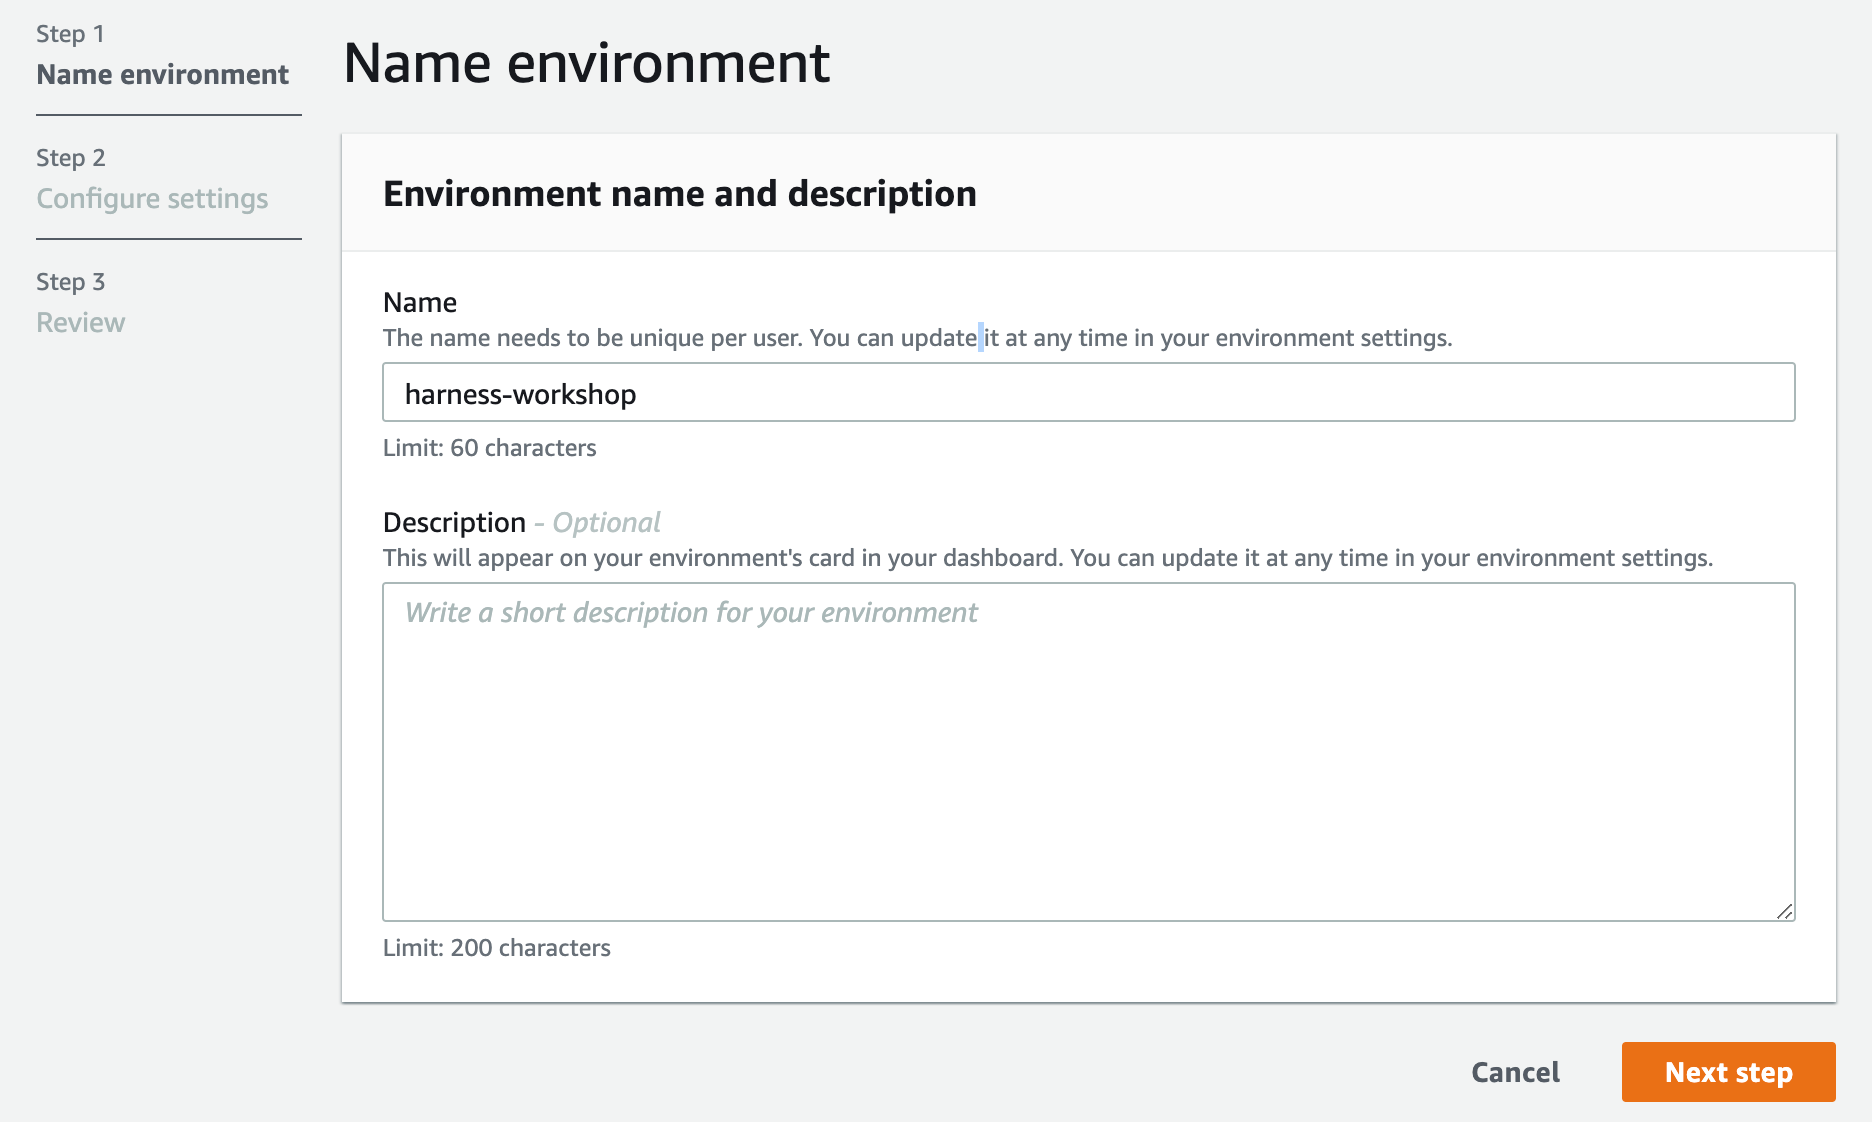
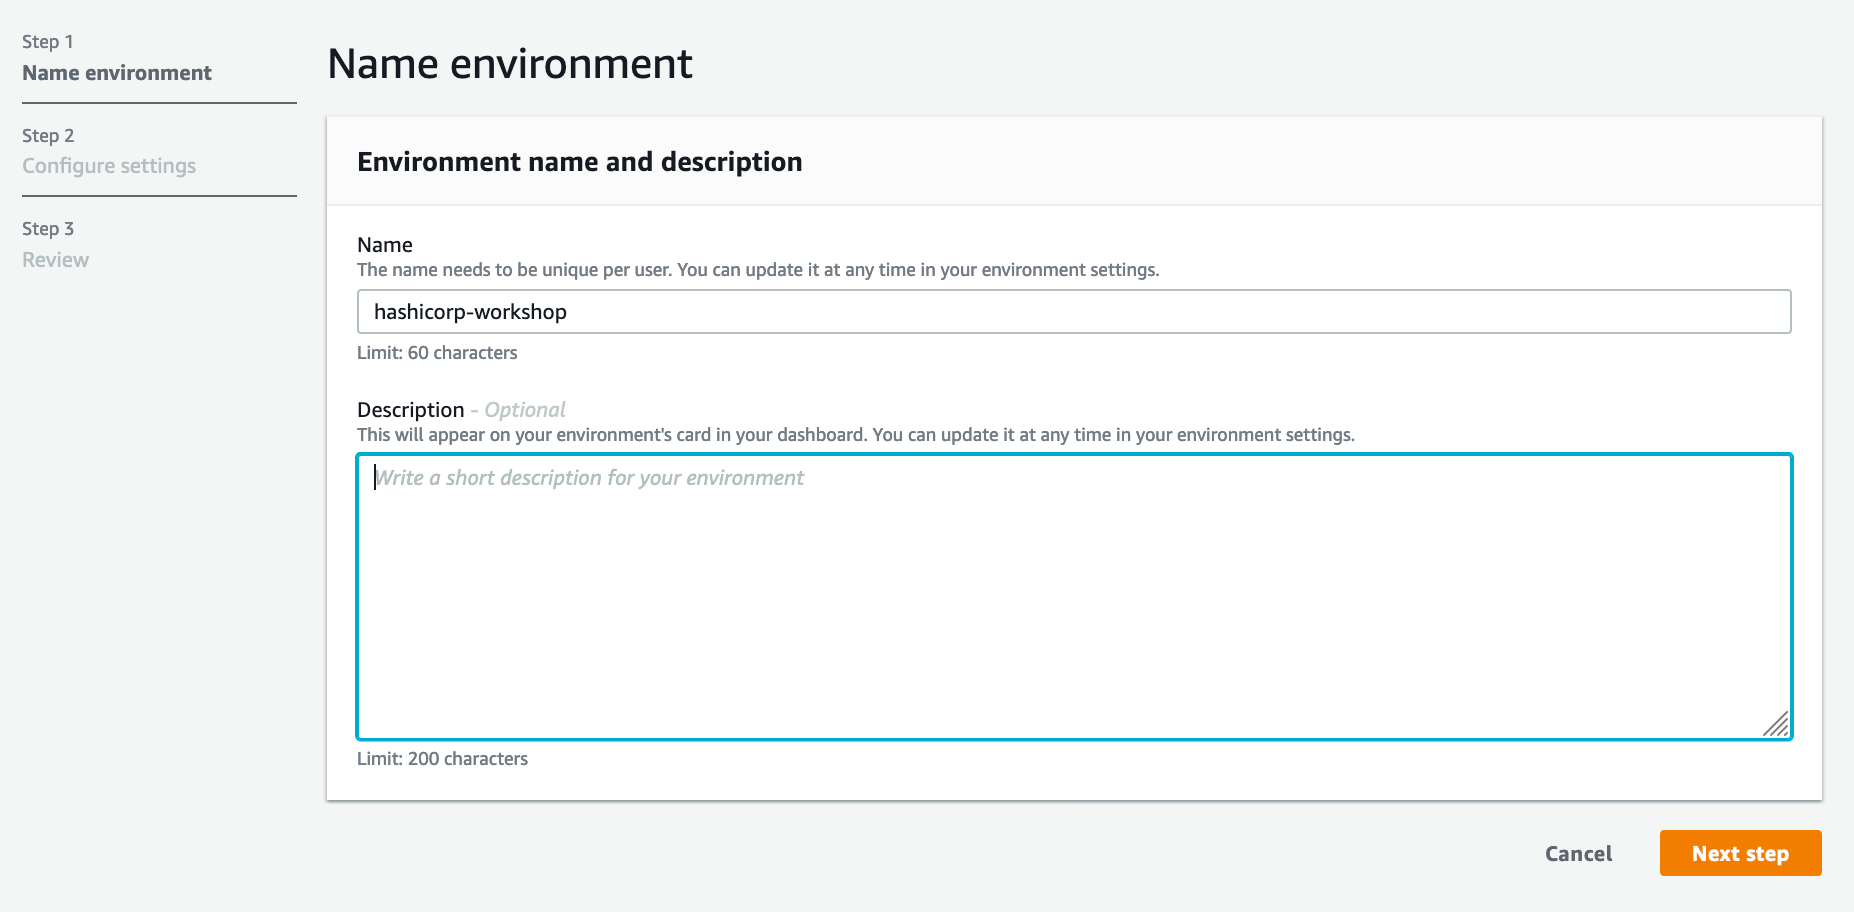
tidy up self-guided and clean up section

diff --git a/content/030_self_guided_setup/36_config_workshop_req.md b/content/030_self_guided_setup/36_config_workshop_req.md
@@ -1,20 +1,12 @@
 ---
-title: "5. Configure workshop"
+title: "4. Configure workshop"
 chapter: true
 weight: 18
 ---
 
 ## Configure Workspace
 
-1. Return to your workspace and click the gear icon (in top right corner), or click to open a new tab and choose "Open Preferences"
-
-2. Select **AWS SETTINGS** and turn off **AWS managed temporary credentials**
-
-3. Close the Preferences tab
-   
-    ![Turn off temp credentials](/images/setup/iamRoleWorkspace.gif)
-
-4. Copy and run (paste with **Ctrl+P** or **CMD+P**) the commands below.
+Copy and run (paste with **Ctrl+P** or **CMD+P**) the commands below.
 
       Before running it, review what it does by reading through the comments.
 
@@ -50,4 +42,4 @@ weight: 18
    If the IAM role is not valid, <span style="color: red;">**DO NOT PROCEED**</span>. Go back and confirm the steps on this page.
    {{% /notice %}}
 
-   If you are done, please proceed to the Partner Setup section!
+   If you are done, please proceed to the next section!

diff --git a/content/090_cleanup/_index.md b/content/090_cleanup/_index.md
@@ -7,4 +7,4 @@ weight: 90
 
 # Workshop Cleanup
 
-Place instructions to cleanup all resources and anything that the participants have created here or within this section.
+Congratulations on completing the workshop! Now although you may AWS credits to pay for the costs incurred today, the next few sections will instruct you how to turn off all the infrastructure you’ve created in order to work through the material.

diff --git a/content/030_self_guided_setup/34_start_cloud9workspace.md b/content/030_self_guided_setup/34_start_cloud9workspace.md
@@ -23,7 +23,7 @@ We will use Amazon Cloud9 to access our AWS accounts via the AWS CLI in this Wor
 
 3 . Click the **Create environment** button
 
-4 . For the name use `partnerName-workshop`, then click **Next step**
+4 . For the name use `hashicorp-workshop`, then click **Next step**
 
 5 . Select the default instance type **t3.micro**
 

diff --git a/content/090_cleanup/1-cloud-destroy.md b/content/090_cleanup/1-cloud-destroy.md
@@ -1,7 +1,7 @@
 ---
 title: "Terraform Destroy"
 chapter: false
-weight: 14
+weight: 1
 ---
 ---
 
